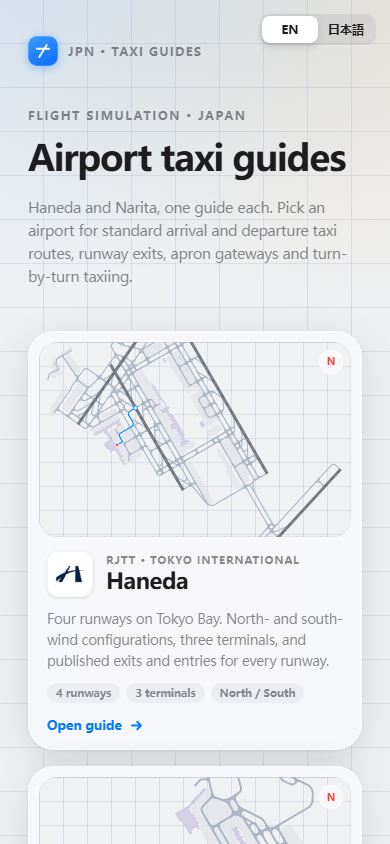
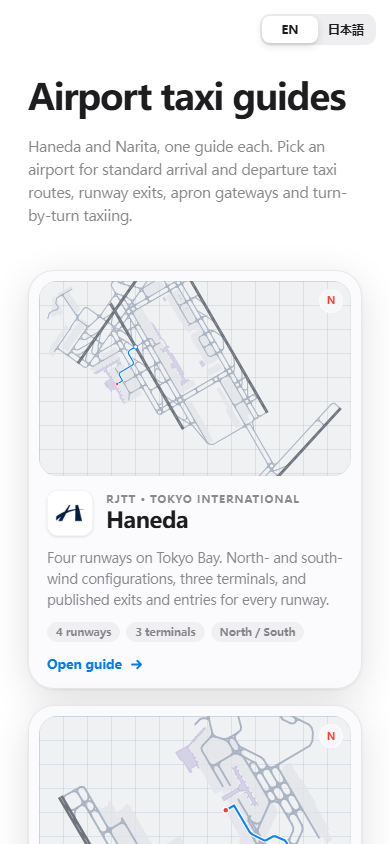
Simplify the chooser: drop the brand row and eyebrow, use a white background
The page now opens directly on the title and the two airport cards on pure white (dark mode keeps its dark canvas). The language switch stays in the top-right corner.

diff --git a/src/chooser.css b/src/chooser.css
@@ -11,31 +11,14 @@ body.chooser {
   min-height: 100vh;
   min-height: 100dvh;
   overflow: visible;
-  background: var(--map-bg);
+  background: #fff;
   -webkit-tap-highlight-color: transparent;
 }
 
-.chooser-bg {
-  position: fixed;
-  inset: 0;
-  z-index: 0;
-  pointer-events: none;
-  background-color: var(--map-bg);
-  background-image:
-    radial-gradient(900px 520px at 10% -10%, color-mix(in srgb, var(--blue) 13%, transparent), transparent 70%),
-    radial-gradient(760px 460px at 96% 2%, color-mix(in srgb, var(--orange) 10%, transparent), transparent 65%),
-    linear-gradient(var(--map-grid) 1px, transparent 1px),
-    linear-gradient(90deg, var(--map-grid) 1px, transparent 1px);
-  background-size:
-    auto,
-    auto,
-    44px 44px,
-    44px 44px;
-  background-position:
-    0 0,
-    0 0,
-    -1px -1px,
-    -1px -1px;
+@media (prefers-color-scheme: dark) {
+  body.chooser {
+    background: var(--map-bg);
+  }
 }
 
 .chooser {
@@ -55,44 +38,8 @@ body.chooser {
 .topbar {
   display: flex;
   align-items: center;
-  justify-content: space-between;
+  justify-content: flex-end;
   gap: 16px;
-}
-
-.brand {
-  display: inline-flex;
-  align-items: center;
-  gap: 10px;
-  color: var(--label-2);
-  text-decoration: none;
-  font: 700 12px var(--font-display);
-  letter-spacing: 0.1em;
-  text-transform: uppercase;
-  border-radius: 10px;
-  outline-offset: 4px;
-}
-
-.brand:hover {
-  color: var(--label);
-}
-
-.brand-mark {
-  width: 30px;
-  height: 30px;
-  border-radius: 9px;
-  display: grid;
-  place-items: center;
-  background: linear-gradient(155deg, #3d9bff, #0a6cff);
-  box-shadow: 0 2px 10px rgba(10, 132, 255, 0.35), inset 0 0 0 0.5px rgba(255, 255, 255, 0.35);
-}
-
-.brand-mark svg {
-  width: 18px;
-  height: 18px;
-  fill: none;
-  stroke: #fff;
-  stroke-width: 2.4;
-  stroke-linecap: round;
 }
 
 .segmented.lang {
@@ -108,15 +55,7 @@ body.chooser {
 /* ---------- hero ---------- */
 .hero {
   max-width: 780px;
-  margin: clamp(44px, 8vh, 92px) 0 0;
-}
-
-.hero .eyebrow {
-  margin: 0 0 16px;
-  font: 700 11.5px var(--font);
-  letter-spacing: 0.16em;
-  text-transform: uppercase;
-  color: var(--label-2);
+  margin: clamp(28px, 5vh, 56px) 0 0;
 }
 
 .hero h1 {
@@ -147,6 +86,7 @@ body.chooser {
   flex-direction: column;
   padding: 10px;
   border-radius: 26px;
+  border-color: color-mix(in srgb, var(--label) 9%, transparent);
   color: inherit;
   text-decoration: none;
   transition:

diff --git a/index.html b/index.html
@@ -18,20 +18,12 @@
     <link rel="icon" type="image/svg+xml" href="./favicon.svg" />
   </head>
   <body class="chooser">
-    <div class="chooser-bg" aria-hidden="true"></div>
     <main class="chooser">
       <header class="topbar">
-        <a class="brand" href="./">
-          <span class="brand-mark" aria-hidden="true">
-            <svg viewBox="0 0 24 24"><path d="M7 20 17 4M4 9h16" /></svg>
-          </span>
-          <span class="brand-name">JPN · Taxi Guides</span>
-        </a>
         <div class="segmented lang" id="lang" role="tablist" data-i18n-aria="langLabel"></div>
       </header>
 
       <section class="hero">
-        <p class="eyebrow" data-i18n="eyebrow">Flight simulation · Japan</p>
         <h1 data-i18n="heading">Airport taxi guides</h1>
         <p class="lede" data-i18n="lede">
           Haneda and Narita, one guide each. Pick an airport for standard arrival and departure taxi routes, runway

diff --git a/src/chooser.ts b/src/chooser.ts
@@ -10,7 +10,6 @@ const S = {
   pageTitle: { en: "Japan Airport Taxi Guides — Haneda & Narita", ja: "日本の空港タクシーガイド — 羽田・成田" },
   langLabel: { en: "Language", ja: "言語" },
   airportsLabel: { en: "Airport taxi guides", ja: "空港タクシーガイド" },
-  eyebrow: { en: "Flight simulation · Japan", ja: "フライトシミュレーション · 日本" },
   heading: { en: "Airport taxi guides", ja: "空港タクシーガイド" },
   lede: {
     en: "Haneda and Narita, one guide each. Pick an airport for standard arrival and departure taxi routes, runway exits, apron gateways and turn-by-turn taxiing.",
